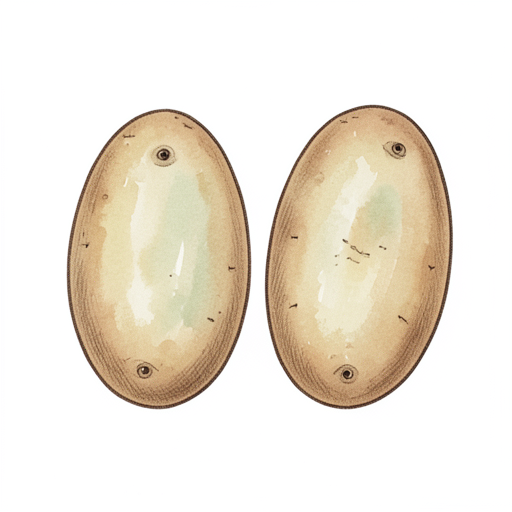
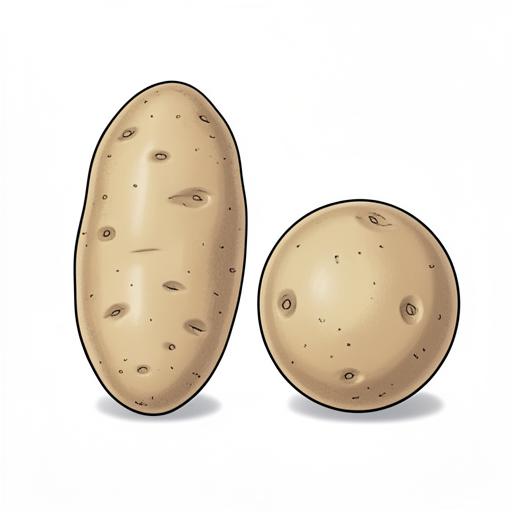
Save generated candidate and queue receipt

Changed region(s): [[0.125, 0.1562, 0.9062, 0.8438]]

diff --git a/data/symbol-white-0.13-arm512/review.html b/data/symbol-white-0.13-arm512/review.html
@@ -1,1 +1,1 @@
-<!doctype html><html lang="sv"><meta charset="utf-8"><title>Bildkandidater</title><style>body{font:16px system-ui;margin:32px;color:#344453;background:white}.cards{display:flex;flex-wrap:wrap;gap:24px}figure{margin:0;width:240px;border:1px solid #ddd;padding:12px}img{width:100%;height:auto}small{color:#666}</style><h1>Bildkandidater</h1><figure><img src="reference.png" alt="Godkänd stilreferens"><figcaption>Stilreferens · se kandidatens metadata för om modellen använder referensbilden som indata.</figcaption></figure><p>Kontrollera handling, händer, borttagning av bakgrund och stil mot referensbilden. Ingen kandidat är publicerad.</p><div class="cards"><figure><img src="FSK_17_83.png" alt="soppa"><figcaption>soppa</figcaption><small>Utkast · granskning krävs</small><details><summary>Före friläggning</summary><img src="raw/FSK_17_83.png" alt="Motivet före bakgrundsborttagning"></details></figure><figure><img src="FSK_17_87.png" alt="t-shirt"><figcaption>t-shirt</figcaption><small>Utkast · granskning krävs</small><details><summary>Före friläggning</summary><img src="raw/FSK_17_87.png" alt="Motivet före bakgrundsborttagning"></details></figure><figure><img src="FSK_21_05.png" alt="mapp"><figcaption>mapp</figcaption><small>Utkast · granskning krävs</small><details><summary>Före friläggning</summary><img src="raw/FSK_21_05.png" alt="Motivet före bakgrundsborttagning"></details></figure><figure><img src="FSK_24_35.png" alt="potta"><figcaption>potta</figcaption><small>Utkast · granskning krävs</small><details><summary>Före friläggning</summary><img src="raw/FSK_24_35.png" alt="Motivet före bakgrundsborttagning"></details></figure><figure><img src="FSK_25_14.png" alt="spelpjäs"><figcaption>spelpjäs</figcaption><small>Utkast · granskning krävs</small><details><summary>Före friläggning</summary><img src="raw/FSK_25_14.png" alt="Motivet före bakgrundsborttagning"></details></figure><figure><img src="FSK_28_59.png" alt="gran"><figcaption>gran</figcaption><small>Utkast · granskning krävs</small><details><summary>Före friläggning</summary><img src="raw/FSK_28_59.png" alt="Motivet före bakgrundsborttagning"></details></figure><figure><img src="FSK_28_78.png" alt="björk"><figcaption>björk</figcaption><small>Utkast · granskning krävs</small><details><summary>Före friläggning</summary><img src="raw/FSK_28_78.png" alt="Motivet före bakgrundsborttagning"></details></figure><figure><img src="FSK_29_06.png" alt="spindel"><figcaption>spindel</figcaption><small>Utkast · granskning krävs</small><details><summary>Före friläggning</summary><img src="raw/FSK_29_06.png" alt="Motivet före bakgrundsborttagning"></details></figure><figure><img src="FSK_31_14.png" alt="matta"><figcaption>matta</figcaption><small>Utkast · granskning krävs</small><details><summary>Före friläggning</summary><img src="raw/FSK_31_14.png" alt="Motivet före bakgrundsborttagning"></details></figure><figure><img src="FSK_32_34.png" alt="myra"><figcaption>myra</figcaption><small>Utkast · granskning krävs</small><details><summary>Före friläggning</summary><img src="raw/FSK_32_34.png" alt="Motivet före bakgrundsborttagning"></details></figure><figure><img src="FSK_91_13.png" alt="skål"><figcaption>skål</figcaption><small>Utkast · granskning krävs</small><details><summary>Före friläggning</summary><img src="raw/FSK_91_13.png" alt="Motivet före bakgrundsborttagning"></details></figure><figure><img src="FSK_91_35.png" alt="handfat"><figcaption>handfat</figcaption><small>Utkast · granskning krävs</small><details><summary>Före friläggning</summary><img src="raw/FSK_91_35.png" alt="Motivet före bakgrundsborttagning"></details></figure><figure><img src="FSK_91_41.png" alt="penna"><figcaption>penna</figcaption><small>Utkast · granskning krävs</small><details><summary>Före friläggning</summary><img src="raw/FSK_91_41.png" alt="Motivet före bakgrundsborttagning"></details></figure><figure><img src="FSK_91_47.png" alt="pussel"><figcaption>pussel</figcaption><small>Utkast · granskning krävs</small><details><summary>Före friläggning</summary><img src="raw/FSK_91_47.png" alt="Motivet före bakgrundsborttagning"></details></figure><figure><img src="FSK_91_52.png" alt="leksaksbil"><figcaption>leksaksbil</figcaption><small>Utkast · granskning krävs</small><details><summary>Före friläggning</summary><img src="raw/FSK_91_52.png" alt="Motivet före bakgrundsborttagning"></details></figure><figure><img src="FSK_91_61.png" alt="löv"><figcaption>löv</figcaption><small>Utkast · granskning krävs</small><details><summary>Före friläggning</summary><img src="raw/FSK_91_61.png" alt="Motivet före bakgrundsborttagning"></details></figure></div></html>
+<!doctype html><html lang="sv"><meta charset="utf-8"><title>Bildkandidater</title><style>body{font:16px system-ui;margin:32px;color:#344453;background:white}.cards{display:flex;flex-wrap:wrap;gap:24px}figure{margin:0;width:240px;border:1px solid #ddd;padding:12px}img{width:100%;height:auto}small{color:#666}</style><h1>Bildkandidater</h1><figure><img src="reference.png" alt="Godkänd stilreferens"><figcaption>Stilreferens · se kandidatens metadata för om modellen använder referensbilden som indata.</figcaption></figure><p>Kontrollera handling, händer, borttagning av bakgrund och stil mot referensbilden. Ingen kandidat är publicerad.</p><div class="cards"><figure><img src="FSK_16_18.png" alt="potatis"><figcaption>potatis</figcaption><small>Utkast · granskning krävs</small><details><summary>Före friläggning</summary><img src="raw/FSK_16_18.png" alt="Motivet före bakgrundsborttagning"></details></figure><figure><img src="FSK_17_83.png" alt="soppa"><figcaption>soppa</figcaption><small>Utkast · granskning krävs</small><details><summary>Före friläggning</summary><img src="raw/FSK_17_83.png" alt="Motivet före bakgrundsborttagning"></details></figure><figure><img src="FSK_17_87.png" alt="t-shirt"><figcaption>t-shirt</figcaption><small>Utkast · granskning krävs</small><details><summary>Före friläggning</summary><img src="raw/FSK_17_87.png" alt="Motivet före bakgrundsborttagning"></details></figure><figure><img src="FSK_21_05.png" alt="mapp"><figcaption>mapp</figcaption><small>Utkast · granskning krävs</small><details><summary>Före friläggning</summary><img src="raw/FSK_21_05.png" alt="Motivet före bakgrundsborttagning"></details></figure><figure><img src="FSK_24_35.png" alt="potta"><figcaption>potta</figcaption><small>Utkast · granskning krävs</small><details><summary>Före friläggning</summary><img src="raw/FSK_24_35.png" alt="Motivet före bakgrundsborttagning"></details></figure><figure><img src="FSK_25_14.png" alt="spelpjäs"><figcaption>spelpjäs</figcaption><small>Utkast · granskning krävs</small><details><summary>Före friläggning</summary><img src="raw/FSK_25_14.png" alt="Motivet före bakgrundsborttagning"></details></figure><figure><img src="FSK_28_59.png" alt="gran"><figcaption>gran</figcaption><small>Utkast · granskning krävs</small><details><summary>Före friläggning</summary><img src="raw/FSK_28_59.png" alt="Motivet före bakgrundsborttagning"></details></figure><figure><img src="FSK_28_78.png" alt="björk"><figcaption>björk</figcaption><small>Utkast · granskning krävs</small><details><summary>Före friläggning</summary><img src="raw/FSK_28_78.png" alt="Motivet före bakgrundsborttagning"></details></figure><figure><img src="FSK_29_06.png" alt="spindel"><figcaption>spindel</figcaption><small>Utkast · granskning krävs</small><details><summary>Före friläggning</summary><img src="raw/FSK_29_06.png" alt="Motivet före bakgrundsborttagning"></details></figure><figure><img src="FSK_31_14.png" alt="matta"><figcaption>matta</figcaption><small>Utkast · granskning krävs</small><details><summary>Före friläggning</summary><img src="raw/FSK_31_14.png" alt="Motivet före bakgrundsborttagning"></details></figure><figure><img src="FSK_32_34.png" alt="myra"><figcaption>myra</figcaption><small>Utkast · granskning krävs</small><details><summary>Före friläggning</summary><img src="raw/FSK_32_34.png" alt="Motivet före bakgrundsborttagning"></details></figure><figure><img src="FSK_91_13.png" alt="skål"><figcaption>skål</figcaption><small>Utkast · granskning krävs</small><details><summary>Före friläggning</summary><img src="raw/FSK_91_13.png" alt="Motivet före bakgrundsborttagning"></details></figure><figure><img src="FSK_91_35.png" alt="handfat"><figcaption>handfat</figcaption><small>Utkast · granskning krävs</small><details><summary>Före friläggning</summary><img src="raw/FSK_91_35.png" alt="Motivet före bakgrundsborttagning"></details></figure><figure><img src="FSK_91_41.png" alt="penna"><figcaption>penna</figcaption><small>Utkast · granskning krävs</small><details><summary>Före friläggning</summary><img src="raw/FSK_91_41.png" alt="Motivet före bakgrundsborttagning"></details></figure><figure><img src="FSK_91_47.png" alt="pussel"><figcaption>pussel</figcaption><small>Utkast · granskning krävs</small><details><summary>Före friläggning</summary><img src="raw/FSK_91_47.png" alt="Motivet före bakgrundsborttagning"></details></figure><figure><img src="FSK_91_52.png" alt="leksaksbil"><figcaption>leksaksbil</figcaption><small>Utkast · granskning krävs</small><details><summary>Före friläggning</summary><img src="raw/FSK_91_52.png" alt="Motivet före bakgrundsborttagning"></details></figure><figure><img src="FSK_91_61.png" alt="löv"><figcaption>löv</figcaption><small>Utkast · granskning krävs</small><details><summary>Före friläggning</summary><img src="raw/FSK_91_61.png" alt="Motivet före bakgrundsborttagning"></details></figure></div></html>
